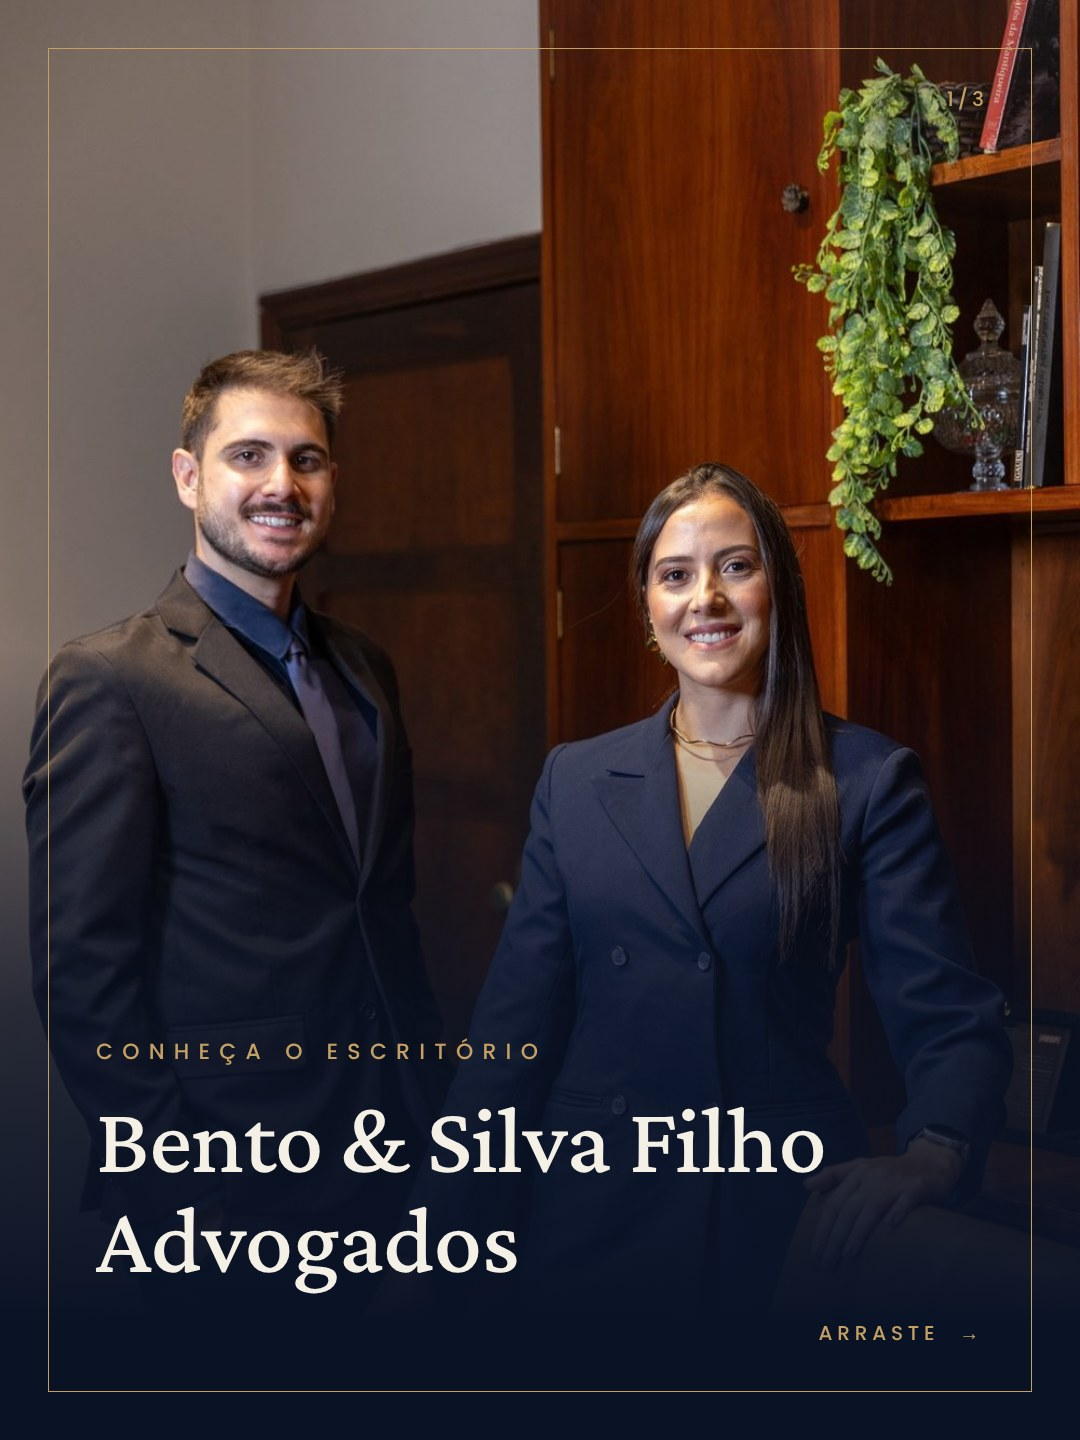
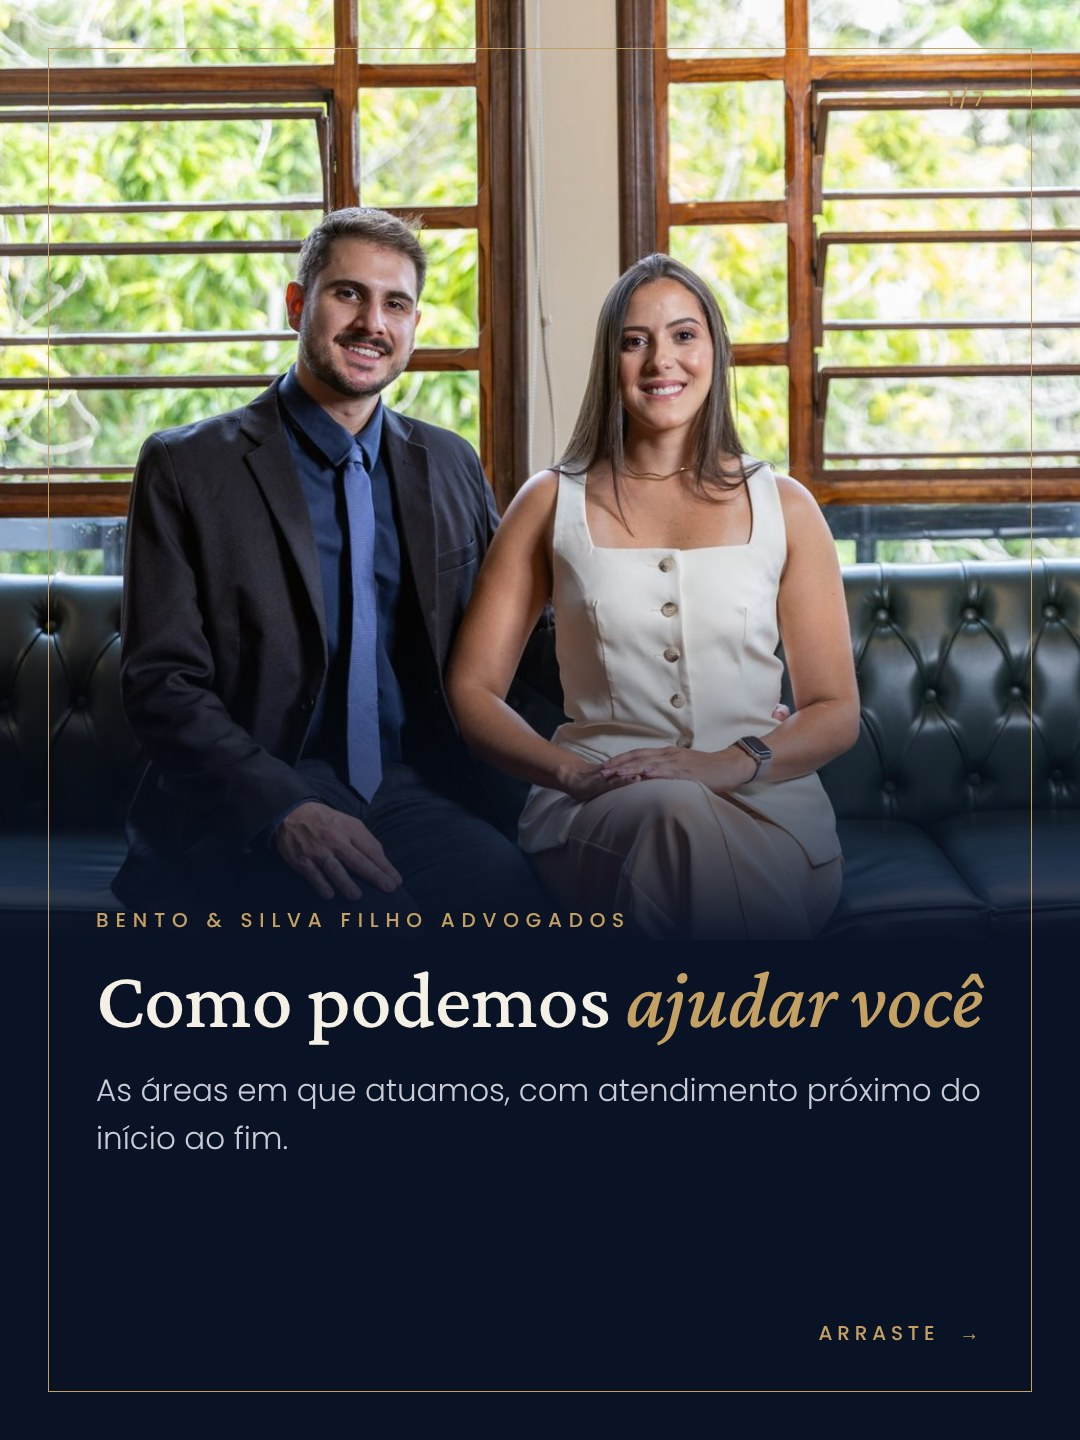
Post de 26/11 passa a ser carrossel de serviços com fotos; apresentações de 03/12 e 10/12 canceladas
Claude-Session: https://claude.ai/code/session_019yFdNPbXaqafi1aGd5nU4B

diff --git a/.src/posts/kit.py b/.src/posts/kit.py
@@ -14,7 +14,7 @@ def b64(p,m): return f'data:{m};base64,'+base64.b64encode(open(p,'rb').read()).d
 MONOD=b64(os.path.join(HERE,'assets','mono-escuro.svg'),'image/svg+xml')
 MONOC=b64(os.path.join(HERE,'assets','mono-claro.svg'),'image/svg+xml')
 MONO=b64(os.path.join(HERE,'assets','mono-principal.svg'),'image/svg+xml')
-FOTO={k:b64(os.path.join(ROOT,'img',k+'.jpg'),'image/jpeg') for k in ('paulo','heloisa','dupla')}
+FOTO={k:b64(os.path.join(ROOT,'img',k+'.jpg'),'image/jpeg') for k in ('paulo','heloisa','dupla','escritorio-1','escritorio-2','escritorio-3')}
 N,G,C='#0A1326','#C5A063','#F4F0E5'
 def big(icon,size,color,sw=1.2):
     return IC[icon].replace('<svg ',f'<svg style="width:{size}px;height:{size}px;color:{color}" ').replace('stroke-width="1.8"',f'stroke-width="{sw}"')
@@ -90,8 +90,8 @@ def conheca_bio(nome,oab,form,atua,l1='FORMAÇÃO',l2='ATUAÇÃO'):
 <div class=eb style='font-size:19px;margin-top:46px'>{l2}</div>
 <div class=p style='font-size:30px;color:#3B4256;margin-top:16px'>{atua}</div></div>{foot(False)}"""
     return page(W,H,C,b,N)
-def conheca_fim(frase,assin):
-    b=f"""<div class=fr></div><div class=cnt style='color:{G}'>3/3</div>
+def conheca_fim(frase,assin,n=3,tot=3):
+    b=f"""<div class=fr></div><div class=cnt style='color:{G}'>{n}/{tot}</div>
 <div style='position:absolute;inset:0;display:flex;flex-direction:column;justify-content:center;padding:0 120px;margin-top:-60px'>
 <div style='font-family:Cr;font-size:220px;line-height:.6;color:{G};height:90px'>“</div>
 <div class=t style='font-size:66px;color:{C};font-style:italic;font-weight:400'>{frase}</div>
@@ -108,3 +108,13 @@ def capa_reels(eb,titulo,lei,adv,icon,dark):
 <div style='width:110px;height:2px;background:{G};margin:46px 0 26px'></div>
 <div style='display:flex;justify-content:space-between;font-family:Po;font-size:22px;letter-spacing:.06em'><span style='color:{G}'>{lei}</span><span style='letter-spacing:.2em;color:{'#C9CCD6' if dark else '#5B6274'}'>{adv}</span></div></div>"""
     return page(1080,1920,bg,b,fg)
+
+def foto_area(n,tot,foto,eb,titulo,texto,pos='center 25%',swipe=False):
+    b=f"""<img src='{foto}' style='position:absolute;left:0;top:0;width:100%;height:940px;object-fit:cover;object-position:{pos}'>
+<div style='position:absolute;left:0;right:0;top:620px;height:330px;background:linear-gradient(180deg,rgba(10,19,38,0),{N})'></div>
+<div class=fr></div><div class=cnt style='color:{G};text-shadow:0 1px 6px rgba(0,0,0,.5)'>{n}/{tot}</div>
+<div style='position:absolute;left:96px;right:96px;top:905px'><div class=eb style='font-size:20px;letter-spacing:.34em'>{eb}</div>
+<div class=t style='font-size:82px;margin-top:22px;color:{C}'>{titulo}</div>
+<div class=p style='font-size:31px;margin-top:24px;color:#C9CCD6'>{texto}</div></div>
+{"<div class=sw>ARRASTE &nbsp;→</div>" if swipe else foot(True)}"""
+    return page(W,H,N,b,C)

diff --git a/.src/posts/render.py b/.src/posts/render.py
@@ -8,6 +8,7 @@ Tipos de slide (os campos de texto aceitam <em>...</em> para destaque dourado):
   conheca_capa: {"tipo":"conheca_capa","foto":"paulo|heloisa|dupla","nome":"..."}
   conheca_bio:  {"tipo":"conheca_bio","nome":"...","oab":"...","form":"...","atua":"..."}
   conheca_fim:  {"tipo":"conheca_fim","frase":"...","assin":"..."}
+  foto_area:    {"tipo":"foto_area","foto":"paulo|heloisa|dupla|escritorio-1|escritorio-2|escritorio-3","eb":"...","titulo":"...","texto":"...","pos":"center 25%","swipe":false}
   capa_reels:   {"tipo":"capa_reels","eb":"DIREITO EM 60 SEGUNDOS","titulo":"...","lei":"...","adv":"DR. PAULO CÉSAR SILVA FILHO","icon":"relogio","dark":true}
 Numeração n/tot é automática. Ícones: ver LEIAME.md.
 """
@@ -25,7 +26,8 @@ for i,s in enumerate(S,1):
     elif t=='final': h=kit.final(i,T,s['titulo'],s['texto'])
     elif t=='conheca_capa': h=kit.conheca_capa(kit.FOTO[s['foto']],s['nome'],s.get('eb','CONHEÇA'))
     elif t=='conheca_bio': h=kit.conheca_bio(s['nome'],s['oab'],s['form'],s['atua'],s.get('l1','FORMAÇÃO'),s.get('l2','ATUAÇÃO'))
-    elif t=='conheca_fim': h=kit.conheca_fim(s['frase'],s['assin'])
+    elif t=='conheca_fim': h=kit.conheca_fim(s['frase'],s['assin'],i,T)
+    elif t=='foto_area': h=kit.foto_area(i,T,kit.FOTO[s['foto']],s['eb'],s['titulo'],s['texto'],s.get('pos','center 25%'),s.get('swipe',False))
     elif t=='capa_reels': h=kit.capa_reels(s['eb'],s['titulo'],s['lei'],s['adv'],s.get('icon','balanca'),s.get('dark',True))
     else: raise SystemExit('tipo desconhecido: '+t)
     f=os.path.join(out,f"{spec['nome']} - {i:02d}.html"); open(f,'w').write(h); files.append(f)
